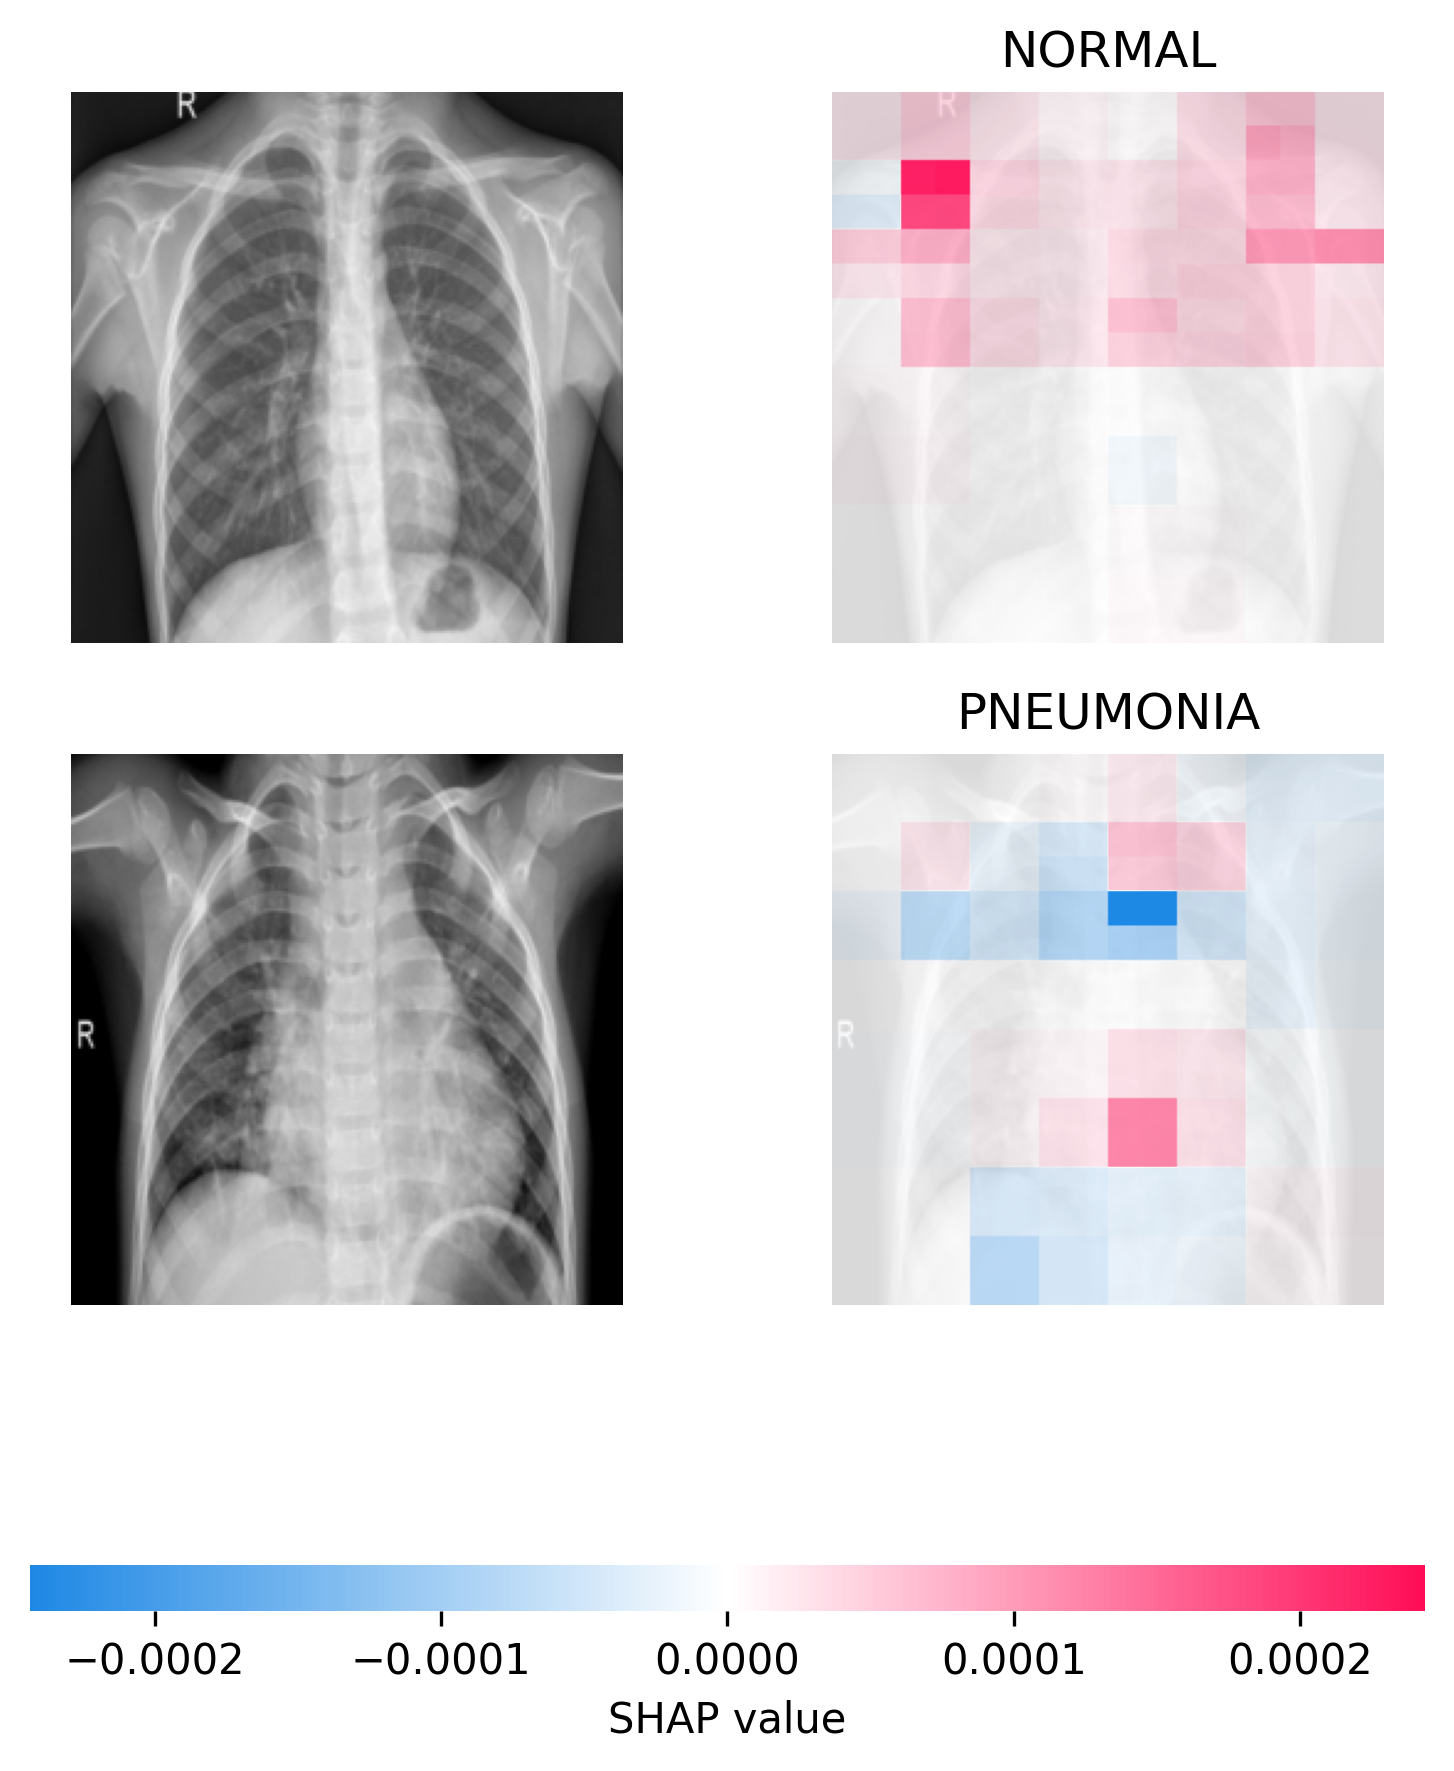
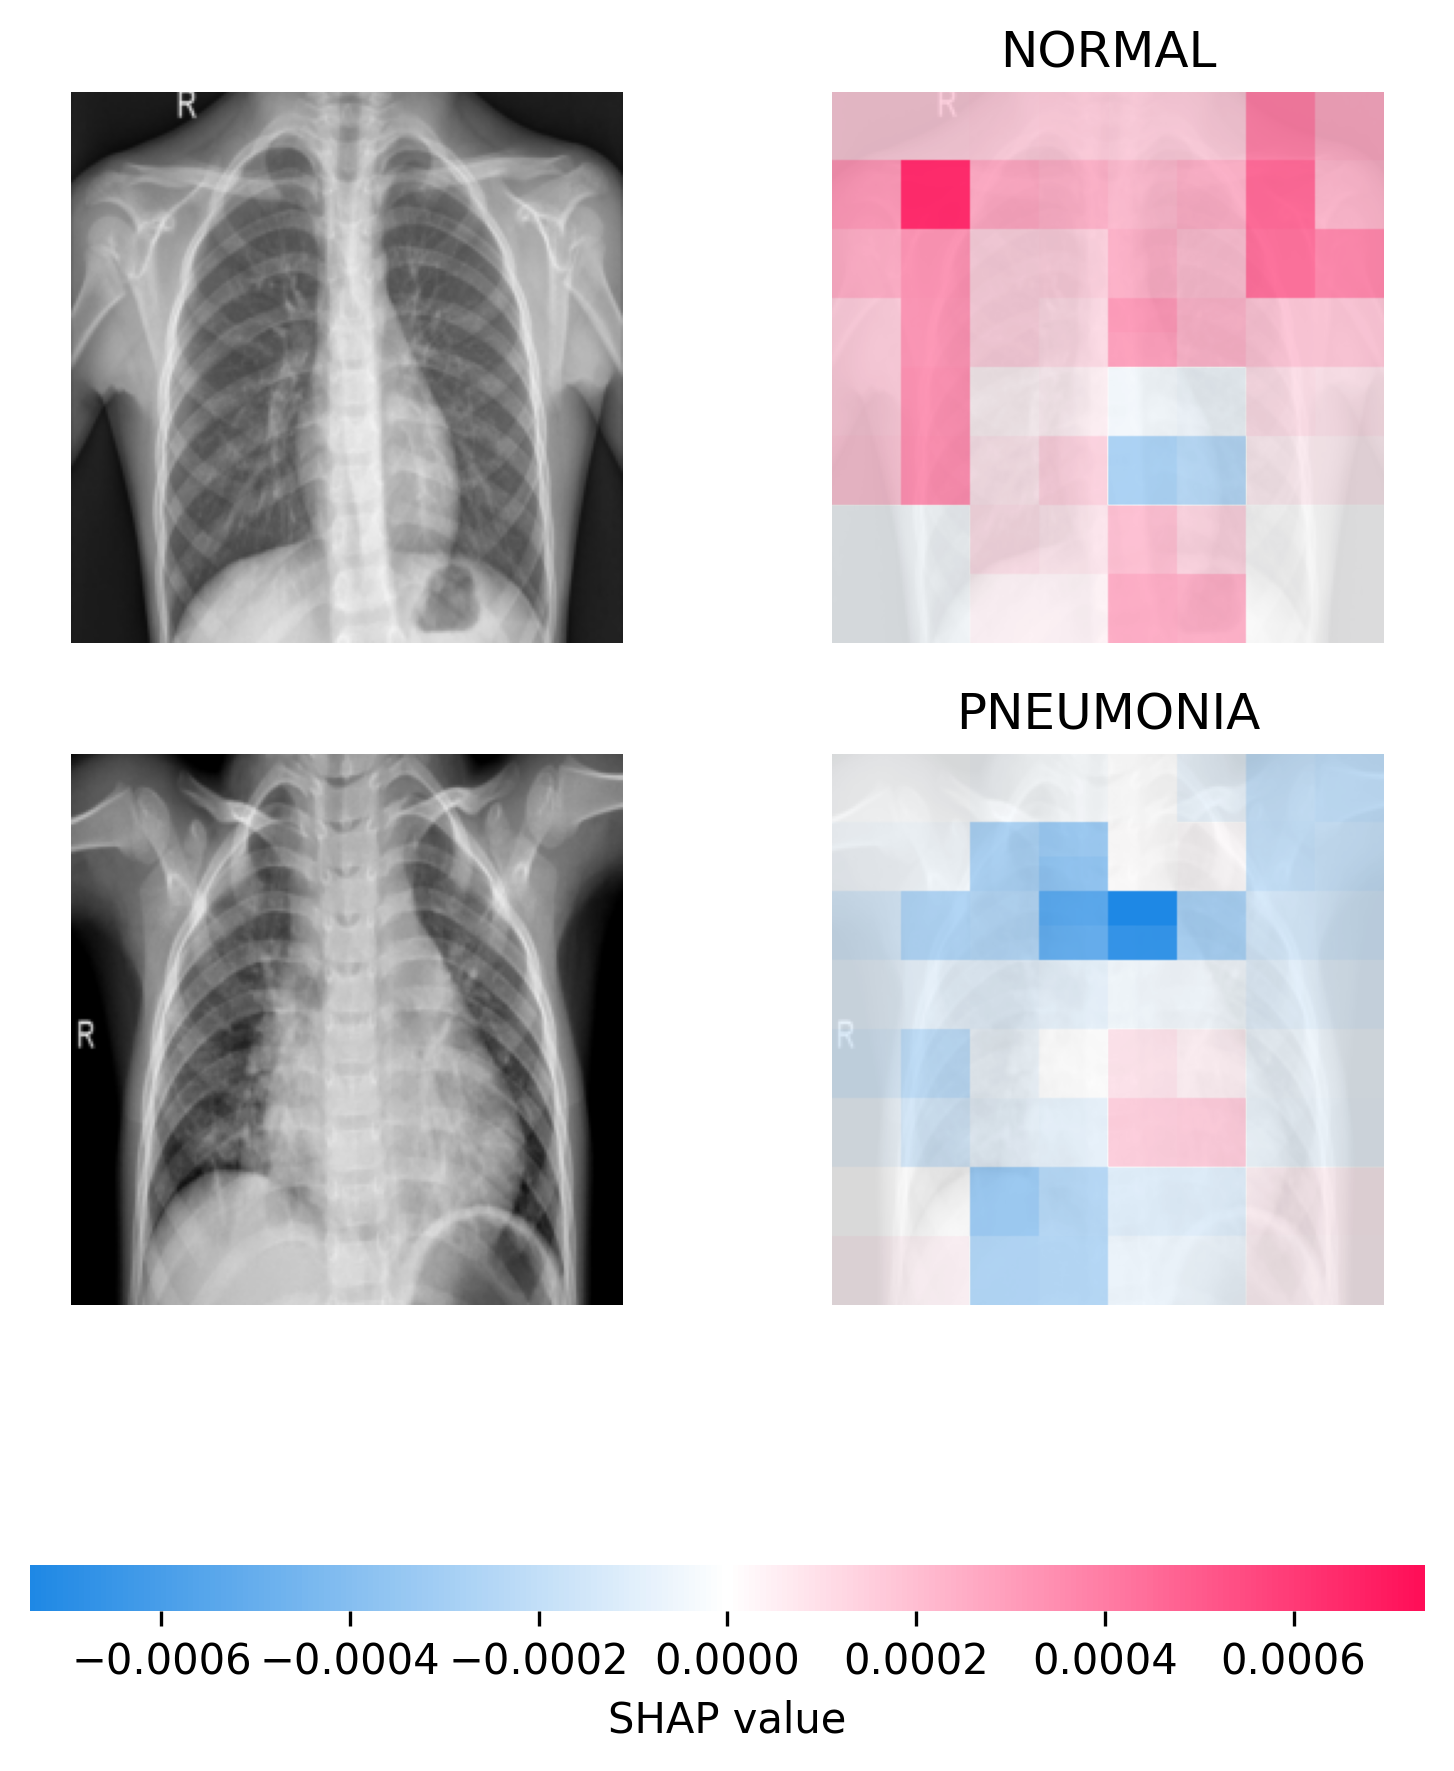
feat: Fix SHAP image saving issue and embed XAI plots into Streamlit UI and README

diff --git a/explain_shap.py b/explain_shap.py
@@ -18,7 +18,7 @@ MODEL_PATH = 'saved_models/pneumonia_binary_best.pth'
 CLASS_NAMES = ['NORMAL', 'PNEUMONIA']
 
 def main():
-    logging.info("🔬 初始化 SHAP 進階模型解釋器 (使用黑盒遮罩法，完美支援 ViT)...")
+    logging.info("🔬 初始化 SHAP 進階模型解釋器 (使用原始 Logits 避免機率飽和)...")
     
     # 1. 載入模型
     model = timm.create_model('vit_base_patch16_224', pretrained=False)
@@ -27,55 +27,45 @@ def main():
     model = model.to(device)
     model.eval()
 
-    # 2. 建立預測函數 (讓 SHAP 傳入乾淨的 numpy 圖片，我們在內部進行正規化並預測)
+    # 2. 建立預測函數
     def predict_fn(images_np):
-        # images_np 是 SHAP 傳進來的陣列，形狀為 (N, 224, 224, 3)
         images_tensor = torch.tensor(images_np).permute(0, 3, 1, 2).float().to(device)
         
-        # 手動進行 ImageNet 正規化 (為了預測)
+        # 手動進行 ImageNet 正規化
         mean = torch.tensor([0.485, 0.456, 0.406]).view(1, 3, 1, 1).to(device)
         std = torch.tensor([0.229, 0.224, 0.225]).view(1, 3, 1, 1).to(device)
         images_tensor = (images_tensor - mean) / std
         
         with torch.no_grad():
             outputs = model(images_tensor)
-            probs = torch.nn.functional.softmax(outputs, dim=1)
-        return probs.cpu().numpy()
+            # 🌟 終極修改：把 probs = softmax(...) 刪掉！
+            # 直接回傳 outputs (模型原始得分 Logits)，這樣 SHAP 數值就會被放大，顏色會超明顯！
+        return outputs.cpu().numpy()
 
-    # 3. 載入測試集 (這裡「不使用」正規化，保持圖片原本的樣子讓 SHAP 畫圖)
+    # 3. 載入測試集
     base_transform = transforms.Compose([
         transforms.Resize((224, 224)),
         transforms.ToTensor()
     ])
     test_dataset = datasets.ImageFolder(os.path.join('chest_xray', 'test'), transform=base_transform)
     
-    # 取 2 張圖來解釋 (1張正常，1張肺炎)
-    # 測試集通常前面是 Normal，後面是 Pneumonia。我們各取一張確保多樣性。
     idx_normal = 0
     idx_pneumonia = len(test_dataset) - 1
     test_images_tensor = torch.stack([test_dataset[idx_normal][0], test_dataset[idx_pneumonia][0]])
-    
-    # 轉換為 (2, 224, 224, 3) 的 Numpy 陣列供 SHAP 使用
     test_images_np = test_images_tensor.permute(0, 2, 3, 1).numpy()
 
     # 4. 建立 SHAP Explainer
-    # 使用影像遮罩法 (把區塊模糊化代表拿掉特徵)
     masker = shap.maskers.Image("blur(128,128)", test_images_np[0].shape)
     explainer = shap.Explainer(predict_fn, masker, output_names=CLASS_NAMES)
 
-    # 5. 計算 SHAP 值 (max_evals 控制細緻度，設為 500 取得平衡)
-    logging.info("⏳ 正在計算像素貢獻度，這可能需要幾分鐘，請稍候...")
+    # 5. 計算 SHAP 值
+    logging.info("⏳ 正在計算像素貢獻度 (使用 Logits)...")
     shap_values = explainer(test_images_np, max_evals=500, outputs=shap.Explanation.argsort.flip[:1])
 
-    # 6. 繪製圖表並存檔 (修正存白圖的問題)
-    # 加入 show=False，讓它在背景畫圖就好，不要彈出視窗清空畫布
+    # 6. 繪製圖表並存檔
     shap.image_plot(shap_values, show=False)
-    
-    # 抓取目前的畫布並直接存檔
     fig = plt.gcf()
     fig.savefig('shap_explanation.png', dpi=300, bbox_inches='tight')
-    
-    # 存檔完成後，把畫布從記憶體中關閉
     plt.close(fig)
     logging.info("✅ SHAP 解釋圖表已重新生成並儲存為 shap_explanation.png")
 
